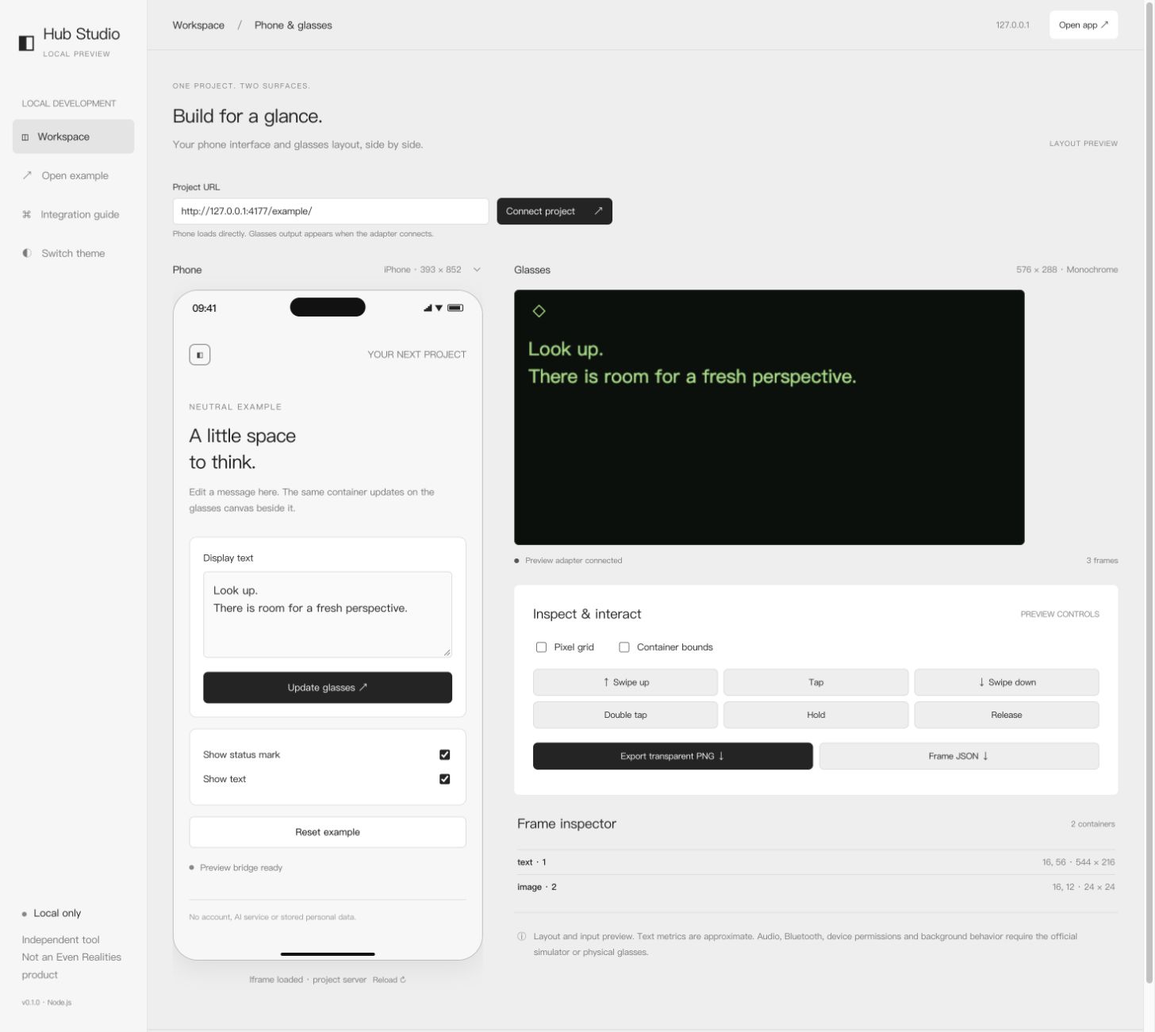
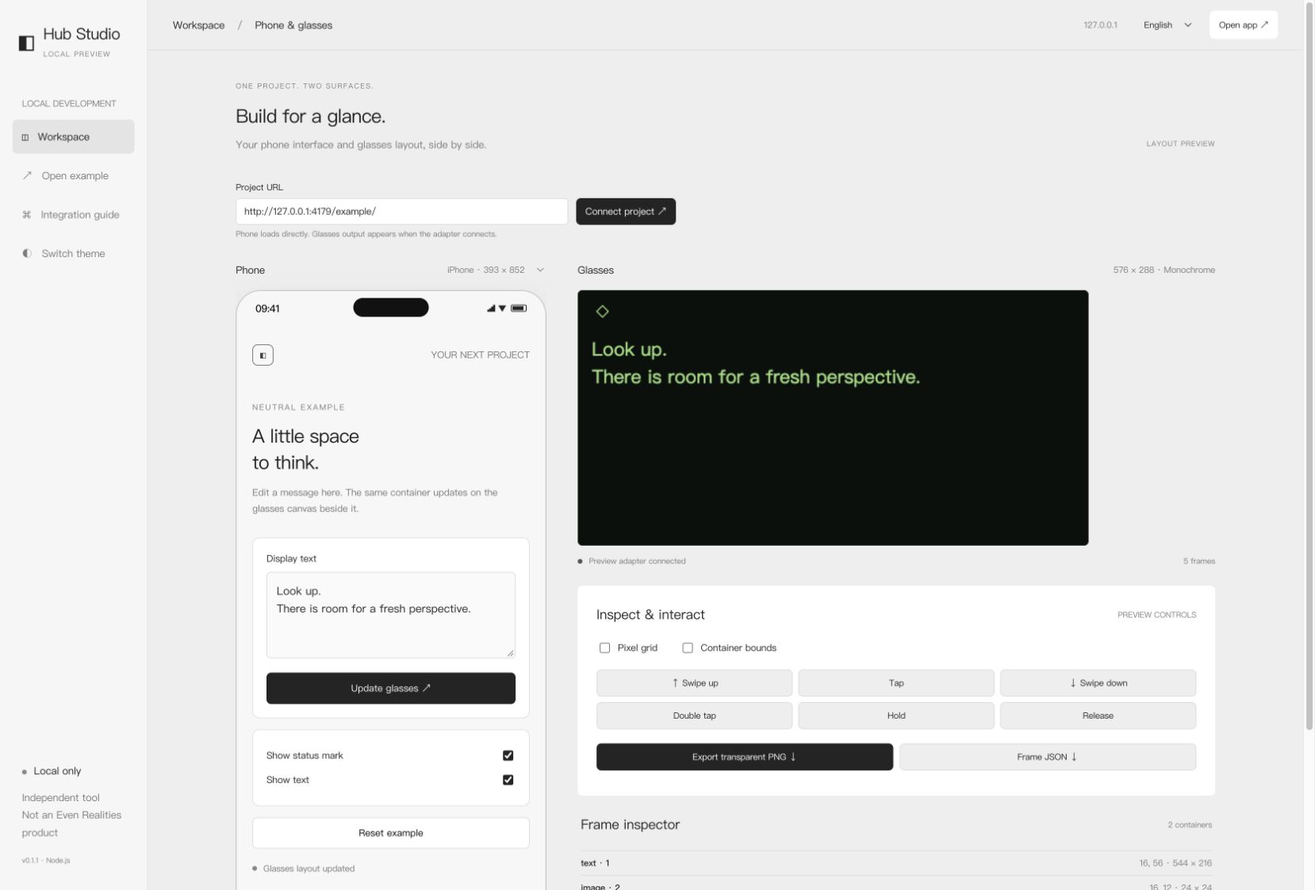
Add Simplified Chinese interface and language preferences

diff --git a/web/index.html b/web/index.html
@@ -1,21 +1,21 @@
 <!doctype html>
 <html lang="en"><head><meta charset="utf-8"><meta name="viewport" content="width=device-width,initial-scale=1"><title>Hub Preview Studio</title><link rel="stylesheet" href="/style.css"></head>
 <body>
-<aside class="sidebar"><a class="brand" href="/"><span class="brand-mark">◧</span><span>Hub Studio<small>LOCAL PREVIEW</small></span></a><span class="caption">LOCAL DEVELOPMENT</span><a class="selected" href="#workspace">◫ &nbsp; Workspace</a><button id="example" class="sidebar-link">↗ &nbsp; Open example</button><button id="guide" class="sidebar-link">⌘ &nbsp; Integration guide</button><button id="theme" class="sidebar-link" aria-label="Switch theme">◐ &nbsp; Switch theme</button><div class="sidebar-bottom"><span class="dot"></span> Local only <p>Independent tool<br>Not an Even Realities product</p><small>v0.1.0 · Node.js</small></div></aside>
-<div class="workspace" id="workspace"><header class="topbar"><span>Workspace <span class="slash">/</span> Phone & glasses</span><div><span class="local-badge">127.0.0.1</span><a id="open-app" class="topbar-action" target="_blank" rel="noopener noreferrer">Open app ↗</a></div></header>
-<main><div class="heading"><div><span class="eyebrow">ONE PROJECT. TWO SURFACES.</span><h1>Build for a glance.</h1><p>Your phone interface and glasses layout, side by side.</p></div><span class="preview-label">LAYOUT PREVIEW</span></div>
-<form id="connect-form" class="connection"><label for="project-url">Project URL</label><div class="connect-row"><input id="project-url" type="url" placeholder="http://localhost:5173" required autocomplete="off" spellcheck="false"><button class="primary" type="submit">Connect project <span>↗</span></button></div><p id="connection-note" role="status">Use your own dev server or explore the neutral example.</p></form>
-<div class="twin"><section class="phone-column"><div class="panel-title"><h2>Phone</h2><select id="device" aria-label="Phone viewport"><option value="393,852">iPhone · 393 × 852</option><option value="390,844">iPhone · 390 × 844</option><option value="360,800">Android · 360 × 800</option><option value="320,568">Compact · 320 × 568</option></select></div><div class="phone-frame" id="phone-frame"><div class="phone-status"><span class="phone-time">09:41</span><span class="island" aria-hidden="true"></span><span class="phone-indicators" aria-label="Cellular signal, Wi-Fi and battery"><i aria-hidden="true"></i><i aria-hidden="true"></i><b aria-hidden="true"></b></span></div><iframe id="phone" title="Project phone preview" sandbox="allow-scripts allow-same-origin allow-forms allow-downloads"></iframe><div class="phone-home"><div class="home-bar"></div></div></div><div class="panel-caption"><span id="phone-state">No project loaded</span><button id="reload">Reload ↻</button></div></section>
-<div class="glass-column"><section class="glass-panel"><div class="panel-title"><h2>Glasses</h2><span>576 × 288 · Monochrome</span></div><div class="canvas-wrap"><canvas id="glass" width="576" height="288" aria-label="Glasses canvas"></canvas><div id="waiting"><span>◌</span><strong>Waiting for a frame</strong><p>Connect the preview adapter to see your layout here.</p></div></div><div class="panel-caption"><span><i id="bridge-dot" class="dot"></i> <span id="bridge-state">Adapter not connected</span></span><span id="frame-count">0 frames</span></div></section>
-<section class="controls"><div class="section-heading"><h2>Inspect & interact</h2><span class="caption">PREVIEW CONTROLS</span></div><div class="control-row"><label><input id="grid" type="checkbox"> Pixel grid</label><label><input id="bounds" type="checkbox"> Container bounds</label></div><div class="gesture-row"><button data-event="1">↑ Swipe up</button><button data-event="0">Tap</button><button data-event="2">↓ Swipe down</button><button data-event="3">Double tap</button><button data-event="9">Hold</button><button data-event="10">Release</button></div><div class="exports"><button id="export" class="primary" disabled>Export transparent PNG ↓</button><button id="export-json" disabled>Frame JSON ↓</button></div><p class="download-note" role="status"><a id="download-result" hidden></a></p></section>
-<section class="inspector"><div class="section-heading"><h2>Frame inspector</h2><span id="node-count">0 containers</span></div><div id="nodes" class="nodes"><p>No display data yet.</p></div></section>
-<section class="boundary"><span>ⓘ</span><p>Layout and input preview. Text metrics are approximate. Audio, Bluetooth, device permissions and background behavior require the official simulator or physical glasses.</p></section>
+<aside class="sidebar"><a class="brand" href="/"><span class="brand-mark">◧</span><span>Hub Studio<small data-i18n="LOCAL PREVIEW">LOCAL PREVIEW</small></span></a><span class="caption" data-i18n="LOCAL DEVELOPMENT">LOCAL DEVELOPMENT</span><a class="selected" href="#workspace" data-i18n="◫   Workspace">◫ &nbsp; Workspace</a><button id="example" class="sidebar-link" data-i18n="↗   Open example">↗ &nbsp; Open example</button><button id="guide" class="sidebar-link" data-i18n="⌘   Integration guide">⌘ &nbsp; Integration guide</button><button id="theme" class="sidebar-link" aria-label="Switch theme" data-i18n-aria="Switch theme" data-i18n="◐   Switch theme">◐ &nbsp; Switch theme</button><div class="sidebar-bottom"><span class="dot"></span> <span data-i18n="Local only">Local only</span> <p><span data-i18n="Independent tool">Independent tool</span><br><span data-i18n="Not an Even Realities product">Not an Even Realities product</span></p><small>v0.1.1 · Node.js</small></div></aside>
+<div class="workspace" id="workspace"><header class="topbar"><span><span data-i18n="Workspace">Workspace</span> <span class="slash">/</span> <span data-i18n="Phone &amp; glasses">Phone &amp; glasses</span></span><div><span class="local-badge">127.0.0.1</span><select id="language" aria-label="Language / 语言"><option value="en">English</option><option value="zh-CN">简体中文</option></select><a id="open-app" class="topbar-action" target="_blank" rel="noopener noreferrer" data-i18n="Open app ↗">Open app ↗</a></div></header>
+<main><div class="heading"><div><span class="eyebrow" data-i18n="ONE PROJECT. TWO SURFACES.">ONE PROJECT. TWO SURFACES.</span><h1 data-i18n="Build for a glance.">Build for a glance.</h1><p data-i18n="Your phone interface and glasses layout, side by side.">Your phone interface and glasses layout, side by side.</p></div><span class="preview-label" data-i18n="LAYOUT PREVIEW">LAYOUT PREVIEW</span></div>
+<form id="connect-form" class="connection"><label for="project-url" data-i18n="Project URL">Project URL</label><div class="connect-row"><input id="project-url" type="url" placeholder="http://localhost:5173" required autocomplete="off" spellcheck="false"><button class="primary" type="submit"><span data-i18n="Connect project ↗">Connect project ↗</span></button></div><p id="connection-note" role="status">Use your own dev server or explore the neutral example.</p></form>
+<div class="twin"><section class="phone-column"><div class="panel-title"><h2 data-i18n="Phone">Phone</h2><select id="device" aria-label="Phone viewport" data-i18n-aria="Phone viewport"><option value="393,852">iPhone · 393 × 852</option><option value="390,844">iPhone · 390 × 844</option><option value="360,800">Android · 360 × 800</option><option value="320,568" data-i18n="Compact · 320 × 568">Compact · 320 × 568</option></select></div><div class="phone-frame" id="phone-frame"><div class="phone-status"><span class="phone-time">09:41</span><span class="island" aria-hidden="true"></span><span class="phone-indicators" aria-label="Cellular signal, Wi-Fi and battery" data-i18n-aria="Cellular signal, Wi-Fi and battery"><i aria-hidden="true"></i><i aria-hidden="true"></i><b aria-hidden="true"></b></span></div><iframe id="phone" title="Project phone preview" data-i18n-title="Project phone preview" sandbox="allow-scripts allow-same-origin allow-forms allow-downloads"></iframe><div class="phone-home"><div class="home-bar"></div></div></div><div class="panel-caption"><span id="phone-state">No project loaded</span><button id="reload" data-i18n="Reload ↻">Reload ↻</button></div></section>
+<div class="glass-column"><section class="glass-panel"><div class="panel-title"><h2 data-i18n="Glasses">Glasses</h2><span data-i18n="576 × 288 · Monochrome">576 × 288 · Monochrome</span></div><div class="canvas-wrap"><canvas id="glass" width="576" height="288" aria-label="Glasses canvas" data-i18n-aria="Glasses canvas"></canvas><div id="waiting"><span>◌</span><strong data-i18n="Waiting for a frame">Waiting for a frame</strong><p data-i18n="Connect the preview adapter to see your layout here.">Connect the preview adapter to see your layout here.</p></div></div><div class="panel-caption"><span><i id="bridge-dot" class="dot"></i> <span id="bridge-state">Adapter not connected</span></span><span id="frame-count">0 frames</span></div></section>
+<section class="controls"><div class="section-heading"><h2 data-i18n="Inspect &amp; interact">Inspect & interact</h2><span class="caption" data-i18n="PREVIEW CONTROLS">PREVIEW CONTROLS</span></div><div class="control-row"><label><input id="grid" type="checkbox"> <span data-i18n="Pixel grid">Pixel grid</span></label><label><input id="bounds" type="checkbox"> <span data-i18n="Container bounds">Container bounds</span></label></div><div class="gesture-row"><button data-event="1" data-i18n="↑ Swipe up">↑ Swipe up</button><button data-event="0" data-i18n="Tap">Tap</button><button data-event="2" data-i18n="↓ Swipe down">↓ Swipe down</button><button data-event="3" data-i18n="Double tap">Double tap</button><button data-event="9" data-i18n="Hold">Hold</button><button data-event="10" data-i18n="Release">Release</button></div><div class="exports"><button id="export" class="primary" disabled data-i18n="Export transparent PNG ↓">Export transparent PNG ↓</button><button id="export-json" disabled data-i18n="Frame JSON ↓">Frame JSON ↓</button></div><p class="download-note" role="status"><a id="download-result" hidden></a></p></section>
+<section class="inspector"><div class="section-heading"><h2 data-i18n="Frame inspector">Frame inspector</h2><span id="node-count">0 containers</span></div><div id="nodes" class="nodes"><p data-i18n="No display data yet.">No display data yet.</p></div></section>
+<section class="boundary"><span>ⓘ</span><p data-i18n="Layout and input preview. Text metrics are approximate. Audio, Bluetooth, device permissions and background behavior require the official simulator or physical glasses.">Layout and input preview. Text metrics are approximate. Audio, Bluetooth, device permissions and background behavior require the official simulator or physical glasses.</p></section>
 </div></div><p id="error" class="error" role="alert"></p>
-</main><footer><button id="theme-mobile" class="mobile-theme">◐ &nbsp; Switch theme</button><span>Made for your next Hub project.</span><span>No account · No cloud service · No telemetry</span></footer></div>
-<dialog id="help"><header><h2>Connect your project</h2><button id="close-help" aria-label="Close guide">×</button></header><p>Run your project separately, then enter its URL above. For glasses output, install this package in the project and choose the preview bridge only in development:</p><pre><code>import { createPreviewBridge, isStudioPreview }
+</main><footer><button id="theme-mobile" class="mobile-theme" data-i18n="◐   Switch theme">◐ &nbsp; Switch theme</button><span data-i18n="Made for your next Hub project.">Made for your next Hub project.</span><span data-i18n="No account · No cloud service · No telemetry">No account · No cloud service · No telemetry</span></footer></div>
+<dialog id="help"><header><h2 data-i18n="Connect your project">Connect your project</h2><button id="close-help" aria-label="Close guide" data-i18n-aria="Close guide">×</button></header><p data-i18n="Run your project separately, then enter its URL above. For glasses output, install this package in the project and choose the preview bridge only in development:">Run your project separately, then enter its URL above. For glasses output, install this package in the project and choose the preview bridge only in development:</p><pre><code>import { createPreviewBridge, isStudioPreview }
   from 'hub-preview-studio/client';
 
 const bridge = import.meta.env.DEV &amp;&amp; isStudioPreview()
   ? createPreviewBridge()
-  : await waitForEvenAppBridge();</code></pre><p>The bridge supports text, lists, inline PNG images, text replacement and simulated gestures. Preview storage is volatile; audio and sensors are unsupported. Pages that disallow iframe embedding must be adjusted in your dev server.</p><button id="done-help" class="primary">Got it</button></dialog>
+  : await waitForEvenAppBridge();</code></pre><p data-i18n="The bridge supports text, lists, inline PNG images, text replacement and simulated gestures. Preview storage is volatile; audio and sensors are unsupported. Pages that disallow iframe embedding must be adjusted in your dev server.">The bridge supports text, lists, inline PNG images, text replacement and simulated gestures. Preview storage is volatile; audio and sensors are unsupported. Pages that disallow iframe embedding must be adjusted in your dev server.</p><button id="done-help" class="primary" data-i18n="Got it">Got it</button></dialog>
 <script type="module" src="/app.js"></script></body></html>

diff --git a/lib/i18n.js b/lib/i18n.js
@@ -1,0 +1,18 @@
+const zh = {
+  'Studio example':'Studio 示例','Switch theme':'切换主题','Text container does not exist':'文字容器不存在','Text update needs content':'文字更新需要内容','Invalid page':'页面数据无效','Invalid containers':'容器数据无效','Image container does not exist':'图片容器不存在','Inline PNG is too large or invalid':'内嵌 PNG 过大或格式无效','Failed to fetch':'无法连接本地工具服务，请检查服务是否仍在运行。',
+  'LOCAL PREVIEW':'本地预览','LOCAL DEVELOPMENT':'本地开发','◫   Workspace':'◫   工作台','↗   Open example':'↗   打开示例','⌘   Integration guide':'⌘   接入指南','◐   Switch theme':'◐   切换主题','Local only':'仅本地运行','Independent tool':'独立工具','Not an Even Realities product':'非 Even Realities 官方产品',
+  'Workspace':'工作台','Phone & glasses':'手机与眼镜','Open app ↗':'打开 App ↗','ONE PROJECT. TWO SURFACES.':'一个项目，两个界面。','Build for a glance.':'为一瞥而设计。','Your phone interface and glasses layout, side by side.':'并排预览手机界面和眼镜布局。','LAYOUT PREVIEW':'布局预览','Project URL':'项目地址','Connect project ↗':'连接项目 ↗','Use your own dev server or explore the neutral example.':'使用自己的开发服务器，或打开内置示例。',
+  'Phone':'手机','Phone viewport':'手机预览尺寸','Cellular signal, Wi-Fi and battery':'蜂窝信号、无线网络和电池','Project phone preview':'项目手机预览','No project loaded':'尚未加载项目','Loading project…':'正在加载项目…','Iframe loaded · project server':'页面已加载 · 项目服务器','Reload ↻':'重新加载 ↻','Glasses':'眼镜','576 × 288 · Monochrome':'576 × 288 · 单色显示','Glasses canvas':'眼镜画布','Waiting for a frame':'等待画面','Connect the preview adapter to see your layout here.':'连接预览适配器后，布局将在此显示。','Adapter not connected':'适配器未连接','Preview adapter connected':'预览适配器已连接','{n} frames':'{n} 帧','{n} containers':'{n} 个容器',
+  'Inspect & interact':'检查与交互','PREVIEW CONTROLS':'预览控制','Pixel grid':'像素网格','Container bounds':'容器边界','↑ Swipe up':'↑ 向上滑动','Tap':'单击','↓ Swipe down':'↓ 向下滑动','Double tap':'双击','Hold':'按住','Release':'松开','Export transparent PNG ↓':'导出透明 PNG ↓','Frame JSON ↓':'画面 JSON ↓','Frame inspector':'画面检查器','No display data yet.':'暂无显示数据。','Layout and input preview. Text metrics are approximate. Audio, Bluetooth, device permissions and background behavior require the official simulator or physical glasses.':'此处预览布局与输入，文字尺寸为近似值。音频、蓝牙、设备权限和后台行为需使用官方模拟器或实体眼镜验证。',
+  'Made for your next Hub project.':'为你的下一个 Hub 项目而作。','No account · No cloud service · No telemetry':'无需账户 · 无云服务 · 无遥测','Connect your project':'连接项目','Close guide':'关闭指南','Run your project separately, then enter its URL above. For glasses output, install this package in the project and choose the preview bridge only in development:':'先单独运行项目，再在上方输入地址。要预览眼镜输出，请在项目中安装此包，并仅在开发环境中选择预览桥接：','The bridge supports text, lists, inline PNG images, text replacement and simulated gestures. Preview storage is volatile; audio and sensors are unsupported. Pages that disallow iframe embedding must be adjusted in your dev server.':'桥接支持文字、列表、内嵌 PNG、文字替换和模拟手势。预览存储不会持久保存；音频和传感器不受支持。若页面禁止 iframe 嵌入，请调整开发服务器设置。','Got it':'知道了',
+  'Phone loads directly. Glasses output appears when the adapter connects.':'手机直接加载项目；适配器连接后显示眼镜画面。','Use a project dev server URL or the built-in example.':'请使用项目开发服务器地址或内置示例。','Use an HTTP(S) project URL without embedded credentials':'请使用不含凭据的 HTTP(S) 项目地址。','Invalid URL':'项目地址无效。','Frame rejected: {reason}':'画面被拒绝：{reason}','Invalid canvas geometry':'画布几何尺寸无效','Frame needs up to 12 nodes':'画面最多包含 12 个容器','Unknown node type':'未知容器类型','Node IDs must be unique':'容器 ID 必须唯一','Text limit: 2000 characters per container':'每个文字容器最多 2000 字符','List limit: 20 short items':'列表最多包含 20 个短条目','Images must be inline PNG data':'图片必须是内嵌 PNG 数据','Pixels must be one gray4 value per pixel':'每个像素必须有一个 gray4 值','Could not decode an inline PNG. Other containers still render.':'无法解码内嵌 PNG，其他容器仍会显示。','Connect a preview adapter before sending gestures.':'请先连接预览适配器，再发送手势。','Ready · Save {name} again':'已就绪 · 再次保存 {name}','Could not prepare the export. Try again.':'无法准备导出，请重试。','An unexpected error occurred.':'发生未知错误。',
+  'YOUR NEXT PROJECT':'你的下一个项目','NEUTRAL EXAMPLE':'中性示例','A little space\nto think.':'留一点空间\n思考。','Edit a message here. The same container updates on the glasses canvas beside it.':'在此编辑内容，同一容器会在旁边的眼镜画布中更新。','Display text':'显示文字','Look up.\nThere is room for a fresh perspective.':'抬头看看。\n换个角度，也许会有新的发现。','Update glasses ↗':'更新眼镜 ↗','Show status mark':'显示状态图标','Show text':'显示文字','Reset example':'重置示例','Preview bridge ready':'预览桥接已就绪','Glasses layout updated':'眼镜布局已更新','Gesture received: {gesture}':'收到手势：{gesture}','Swipe up':'向上滑动','Swipe down':'向下滑动','No account, AI service or stored personal data.':'无需账户、AI 服务，也不存储个人数据。',
+  'text':'文字','image':'图片','list':'列表','Compact · 320 × 568':'紧凑型 · 320 × 568'
+};
+export const LOCALE_KEY = 'hub-preview-studio.locale';
+export function normalizeLocale(value) { return typeof value === 'string' && value.toLowerCase().startsWith('zh') ? 'zh-CN' : 'en'; }
+export function initialLocale(storage, language = globalThis.navigator?.language) { try { const saved = (storage ?? globalThis.localStorage)?.getItem(LOCALE_KEY); if (saved === 'en' || saved === 'zh-CN') return saved; } catch {} return normalizeLocale(language); }
+export function saveLocale(locale, storage) { try { (storage ?? globalThis.localStorage)?.setItem(LOCALE_KEY, normalizeLocale(locale)); } catch {} }
+export function t(locale, key, params = {}) { let value = normalizeLocale(locale) === 'zh-CN' ? (zh[key] || key) : key; for (const [k, v] of Object.entries(params)) value = value.replaceAll(`{${k}}`, String(v)); return value; }
+export function translateError(locale, message) { if (normalizeLocale(locale) === 'en') return message || 'An unexpected error occurred.'; return zh[message] || zh['An unexpected error occurred.']; }
+export function applyTranslations(root, locale) { root.querySelectorAll('[data-i18n]').forEach(el => { el.textContent = t(locale, el.dataset.i18n); }); root.querySelectorAll('[data-i18n-aria]').forEach(el => el.setAttribute('aria-label', t(locale, el.dataset.i18nAria))); root.querySelectorAll('[data-i18n-title]').forEach(el => el.setAttribute('title', t(locale, el.dataset.i18nTitle))); }

diff --git a/web/app.js b/web/app.js
@@ -1,15 +1,29 @@
 import { CHANNEL, normalizeFrame, validAppURL } from '/protocol.js';
+import { initialLocale, normalizeLocale, saveLocale, t, translateError, applyTranslations } from '/i18n.js';
 const $ = id => document.getElementById(id);
 const iframe = $('phone'), canvas = $('glass');
 let current = null, expectedOrigin = '', sourceURL = '', frames = 0, connected = false, paintRevision = 0;
-const error = message => { $('error').textContent = message || ''; };
+let locale = initialLocale(), phoneKey = 'No project loaded', noteKey = 'Use your own dev server or explore the neutral example.', errorState = null, downloadName = '';
+function error(message, kind = 'error') { errorState = message ? { message, kind } : null; renderState(); }
+function renderState() {
+  document.documentElement.lang = locale; applyTranslations(document, locale); $('language').value = locale;
+  $('phone-state').textContent = t(locale, phoneKey); $('connection-note').textContent = t(locale, noteKey);
+  $('bridge-state').textContent = t(locale, connected ? 'Preview adapter connected' : 'Adapter not connected');
+  $('frame-count').textContent = t(locale, '{n} frames', { n: frames }); $('node-count').textContent = t(locale, '{n} containers', { n: current?.nodes.length || 0 });
+  if (downloadName) $('download-result').textContent = t(locale, 'Ready · Save {name} again', { name: downloadName });
+  $('error').textContent = errorState ? (errorState.kind === 'frame' ? t(locale, 'Frame rejected: {reason}', { reason: translateError(locale, errorState.message) }) : translateError(locale, errorState.message)) : '';
+  if (current) $('nodes').querySelectorAll('.node b').forEach((el, i) => { const n = current.nodes[i]; el.textContent = t(locale, n.type) + ' · ' + n.id; });
+}
+function sendLocale() { if (sourceURL && new URL(sourceURL).origin === location.origin && new URL(sourceURL).pathname === '/example/') send('locale', { locale }); }
+$('language').onchange = () => { locale = normalizeLocale($('language').value); saveLocale(locale); renderState(); sendLocale(); };
+renderState();
 function clearFrame() {
   current = null; frames = 0; connected = false; ++paintRevision;
   $('download-result').hidden = true; $('download-result').removeAttribute('href');
   canvas.getContext('2d').clearRect(0, 0, 576, 288);
   $('waiting').hidden = false; $('bridge-state').textContent = 'Adapter not connected';
-  $('bridge-dot').classList.remove('live'); $('frame-count').textContent = '0 frames';
-  $('node-count').textContent = '0 containers'; $('nodes').replaceChildren();
+  $('bridge-dot').classList.remove('live'); downloadName = ''; renderState();
+  const empty = document.createElement('p'); empty.dataset.i18n = 'No display data yet.'; empty.textContent = t(locale, 'No display data yet.'); $('nodes').replaceChildren(empty);
   for (const id of ['export', 'export-json']) $(id).disabled = true;
 }
 function connect(value) {
@@ -19,33 +33,33 @@ function connect(value) {
     sourceURL = target.href; expectedOrigin = target.origin;
     target.searchParams.set('__hub_studio_origin', location.origin);
     clearFrame(); error(''); $('project-url').value = sourceURL;
-    $('phone-state').textContent = 'Loading project…';
-    $('connection-note').textContent = 'Phone loads directly. Glasses output appears when the adapter connects.';
+    phoneKey = 'Loading project…';
+    noteKey = 'Phone loads directly. Glasses output appears when the adapter connects.'; renderState();
     $('open-app').href = sourceURL; iframe.src = target.href;
   } catch (e) { error(e.message); }
 }
 function send(type, payload = {}) {
   if (expectedOrigin) iframe.contentWindow?.postMessage({ channel: CHANNEL, type, ...payload }, expectedOrigin);
 }
-iframe.addEventListener('load', () => { $('phone-state').textContent = 'Iframe loaded · project server'; send('hello'); });
+iframe.addEventListener('load', () => { phoneKey = 'Iframe loaded · project server'; renderState(); send('hello'); sendLocale(); });
 window.addEventListener('message', event => {
   if (event.source !== iframe.contentWindow || event.origin !== expectedOrigin || event.data?.channel !== CHANNEL) return;
   try {
     if (event.data.type === 'disconnect') { clearFrame(); return; }
-    if (event.data.type === 'ready') { connected = true; $('bridge-state').textContent = 'Preview adapter connected'; $('bridge-dot').classList.add('live'); error(''); }
+    if (event.data.type === 'ready') { connected = true; $('bridge-state').textContent = t(locale, 'Preview adapter connected'); $('bridge-dot').classList.add('live'); error(''); }
     if (event.data.type !== 'frame') return;
     current = normalizeFrame(event.data.frame); connected = true; frames++;
-    $('waiting').hidden = true; $('bridge-state').textContent = 'Preview adapter connected'; $('bridge-dot').classList.add('live');
-    $('frame-count').textContent = frames + ' frames'; $('node-count').textContent = current.nodes.length + ' containers';
+    $('waiting').hidden = true; $('bridge-state').textContent = t(locale, 'Preview adapter connected'); $('bridge-dot').classList.add('live');
+    $('frame-count').textContent = t(locale, '{n} frames', {n: frames}); $('node-count').textContent = t(locale, '{n} containers', {n: current.nodes.length});
     $('nodes').replaceChildren(...current.nodes.map(n => {
       const row = document.createElement('div'); row.className = 'node';
-      const title = document.createElement('b'); title.textContent = n.type + ' · ' + n.id;
+      const title = document.createElement('b'); title.textContent = t(locale, n.type) + ' · ' + n.id;
       const bounds = document.createElement('span'); bounds.textContent = `${n.x}, ${n.y} · ${n.width} × ${n.height}`;
       row.append(title, bounds); return row;
     }));
     for (const id of ['export', 'export-json']) $(id).disabled = false;
     void repaint();
-  } catch (e) { error('Frame rejected: ' + e.message); }
+  } catch (e) { error(e.message, 'frame'); }
 });
 const timer = setInterval(() => { if (!connected) send('hello'); }, 1000);
 window.addEventListener('pagehide', () => clearInterval(timer), { once: true });
@@ -114,7 +128,7 @@ function download(blob, name) {
   const reader = new FileReader();
   reader.onload = () => {
     const link = $('download-result'); link.href = reader.result; link.download = name;
-    link.textContent = 'Ready · Save ' + name + ' again'; link.hidden = false; link.click();
+    downloadName = name; link.textContent = t(locale, 'Ready · Save {name} again', {name}); link.hidden = false; link.click();
   };
   reader.onerror = () => error('Could not prepare the export. Try again.');
   reader.readAsDataURL(blob);

diff --git a/examples/index.html b/examples/index.html
@@ -1,3 +1,3 @@
-<!doctype html><html lang="en"><head><meta charset="utf-8"><meta name="viewport" content="width=device-width,initial-scale=1"><title>Studio example</title><style>
+<!doctype html><html lang="en"><head><meta charset="utf-8"><meta name="viewport" content="width=device-width,initial-scale=1"><title data-i18n="Studio example">Studio example</title><style>
 :root{font:15px/1.5 "FK Grotesk Neue","PingFang SC",-apple-system,BlinkMacSystemFont,"Segoe UI",sans-serif;letter-spacing:-.15px;-webkit-font-smoothing:antialiased;color:#222222;background:#f7f7f7}html{scrollbar-width:none}::-webkit-scrollbar{display:none}*{box-sizing:border-box}body{margin:0;padding:20px}header{display:flex;align-items:center;justify-content:space-between;font-size:12px;margin:4px 0 40px;color:#777777}.mark{width:27px;height:27px;border:1px solid #777777;display:grid;place-items:center;border-radius:7px;color:#444444}small{font-size:10px;letter-spacing:1.5px;color:#777777}h1{font-size:24px;line-height:1.4;font-weight:400;letter-spacing:-.72px;margin:10px 0 12px}p{color:#777777;font-size:12px;line-height:1.7;margin:0 0 26px}section{background:#fff;border:1px solid #e1e1e1;padding:17px;border-radius:9px;margin-bottom:14px}label{display:block;font-size:12px;margin-bottom:8px}textarea{font-family:inherit;font-size:14px;line-height:1.6;width:100%;min-height:110px;resize:vertical;border:1px solid #dddddd;border-radius:5px;padding:12px;background:#fafafa;color:inherit}button{font:inherit;border:1px solid #dddddd;border-radius:6px;background:#fff;padding:10px 15px;cursor:pointer;width:100%;font-size:12px}.primary{background:#242424;color:#fff;border-color:#242424;margin-top:12px}.row{display:flex;justify-content:space-between;gap:10px;padding:6px 0;margin:0;align-items:center}input{accent-color:#242424}.status{display:flex;gap:8px;color:#777777;font-size:11px;margin-top:17px}.status i{background:#888888;height:6px;width:6px;border-radius:50%;margin-top:5px}footer{font-size:10px;color:#999999;margin-top:32px;border-top:1px solid #e1e1e1;padding-top:14px}
-</style></head><body><header><span class="mark">◧</span><span>YOUR NEXT PROJECT</span></header><small>NEUTRAL EXAMPLE</small><h1>A little space<br>to think.</h1><p>Edit a message here. The same container updates on the glasses canvas beside it.</p><section><label for="message">Display text</label><textarea id="message">Look up.\nThere is room for a fresh perspective.</textarea><button id="send" class="primary">Update glasses ↗</button></section><section><label class="row">Show status mark <input type="checkbox" id="icon" checked></label><label class="row">Show text <input type="checkbox" id="text" checked></label></section><button id="reset">Reset example</button><div class="status"><i></i><span id="status">Preview bridge ready</span></div><footer>No account, AI service or stored personal data.</footer><script type="module" src="/example/app.js"></script></body></html>
+</style></head><body><header><span class="mark">◧</span><span data-i18n="YOUR NEXT PROJECT">YOUR NEXT PROJECT</span></header><small data-i18n="NEUTRAL EXAMPLE">NEUTRAL EXAMPLE</small><h1 data-i18n="A little space&#10;to think." style="white-space:pre-line">A little space<br>to think.</h1><p data-i18n="Edit a message here. The same container updates on the glasses canvas beside it.">Edit a message here. The same container updates on the glasses canvas beside it.</p><section><label for="message" data-i18n="Display text">Display text</label><textarea id="message">Look up.\nThere is room for a fresh perspective.</textarea><button id="send" class="primary" data-i18n="Update glasses ↗">Update glasses ↗</button></section><section><label class="row"><span data-i18n="Show status mark">Show status mark</span> <input type="checkbox" id="icon" checked></label><label class="row"><span data-i18n="Show text">Show text</span> <input type="checkbox" id="text" checked></label></section><button id="reset" data-i18n="Reset example">Reset example</button><div class="status"><i></i><span id="status">Preview bridge ready</span></div><footer data-i18n="No account, AI service or stored personal data.">No account, AI service or stored personal data.</footer><script type="module" src="/example/app.js"></script></body></html>

diff --git a/examples/app.js b/examples/app.js
@@ -1,21 +1,24 @@
 import { createPreviewBridge } from '/client.js';
+import { initialLocale, normalizeLocale, t, applyTranslations, translateError } from '/i18n.js';
 const bridge = createPreviewBridge(), $ = id => document.getElementById(id);
-$('message').value = 'Look up.\nThere is room for a fresh perspective.';
+const defaultKey = 'Look up.\nThere is room for a fresh perspective.';
+let locale = initialLocale(), edited = false, statusKey = 'Preview bridge ready', statusParams = {};
+function status(key, params = {}) { statusKey = key; statusParams = params; $('status').textContent = t(locale, key, params); }
+function localize() { document.documentElement.lang = locale; applyTranslations(document, locale); $('status').textContent = t(locale, statusKey, statusParams.gestureCode === undefined ? statusParams : { gesture: t(locale, gestureNames[statusParams.gestureCode] || String(statusParams.gestureCode)) }); }
+$('message').value = t(locale, defaultKey);
+$('message').addEventListener('input', () => { edited = true; });
+localize();
 const icon = [];
 for (let y = 0; y < 24; y++) for (let x = 0; x < 24; x++) icon.push((Math.abs(x - 11.5) + Math.abs(y - 11.5) > 5 && Math.abs(x - 11.5) + Math.abs(y - 11.5) < 8) ? 13 : 0);
-function page() {
-  return {
-    textObject: [{ containerID: 1, xPosition: 16, yPosition: 56, width: 544, height: 216, isEventCapture: 1, content: $('text').checked ? $('message').value : '' }],
-    imageObject: $('icon').checked ? [{ containerID: 2, xPosition: 16, yPosition: 12, width: 24, height: 24 }] : [],
-  };
-}
+function page() { return { textObject: [{ containerID: 1, xPosition: 16, yPosition: 56, width: 544, height: 216, isEventCapture: 1, content: $('text').checked ? $('message').value : '' }], imageObject: $('icon').checked ? [{ containerID: 2, xPosition: 16, yPosition: 12, width: 24, height: 24 }] : [] }; }
 let queue = Promise.resolve();
-function update() {
-  queue = queue.then(async () => { await bridge.rebuildPageContainer(page()); if ($('icon').checked) await bridge.updateImageRawData({ containerID: 2, imageData: icon }); $('status').textContent = 'Glasses layout updated'; }).catch(error => { $('status').textContent = error.message; });
-}
+function update() { queue = queue.then(async () => { await bridge.rebuildPageContainer(page()); if ($('icon').checked) await bridge.updateImageRawData({ containerID: 2, imageData: icon }); status('Glasses layout updated'); }).catch(error => { statusKey = 'An unexpected error occurred.'; $('status').textContent = translateError(locale, error.message); }); }
 $('send').onclick = update;
 for (const id of ['icon', 'text']) $(id).onchange = update;
-$('reset').onclick = () => { $('message').value = 'Look up.\nThere is room for a fresh perspective.'; $('text').checked = true; $('icon').checked = true; update(); };
-bridge.onEvenHubEvent(event => { const code = event.textEvent?.eventType ?? event.listEvent?.eventType; $('status').textContent = 'Gesture received: ' + ({ 0:'Tap', 1:'Swipe up', 2:'Swipe down', 3:'Double tap', 9:'Hold', 10:'Release' }[code] || code); });
+$('reset').onclick = () => { edited = false; $('message').value = t(locale, defaultKey); $('icon').checked = true; $('text').checked = true; update(); };
+const gestureNames = { 0:'Tap', 1:'Swipe up', 2:'Swipe down', 3:'Double tap', 9:'Hold', 10:'Release' };
+bridge.onEvenHubEvent(event => { const code = event.textEvent?.eventType ?? event.listEvent?.eventType; statusKey = 'Gesture received: {gesture}'; statusParams = { gestureCode: code }; localize(); });
+const studioOrigin = new URL(location.href).searchParams.get('__hub_studio_origin');
+window.addEventListener('message', event => { if (event.source !== window.parent || event.origin !== studioOrigin || event.data?.channel !== 'hub-preview-studio/v1' || event.data.type !== 'locale' || !['en','zh-CN'].includes(event.data.locale)) return; const next = normalizeLocale(event.data.locale); if (locale === next) return; locale = next; if (!edited) { $('message').value = t(locale, defaultKey); update(); } localize(); });
 await bridge.createStartUpPageContainer(page());
 if ($('icon').checked) await bridge.updateImageRawData({ containerID: 2, imageData: icon });

diff --git a/web/style.css b/web/style.css
@@ -47,6 +47,7 @@ h2 { font-size: 17px; font-weight: 400; letter-spacing: -.17px; }
 .workspace { margin-left: 188px; }
 .topbar { height: 64px; padding: 0 32px; border-bottom: 1px solid var(--line); display: flex; align-items: center; justify-content: space-between; background: var(--bg); font-size: 13px; }
 .topbar > div { display: flex; gap: 20px; align-items: center; }
+#language { max-width: 105px; padding: 4px; color: var(--text); font-size: 11px; }
 .slash { margin: 0 12px; color: var(--muted); }
 .local-badge { display: inline-flex; padding: 2px 6px; border-radius: 3px; background: var(--bg); color: var(--muted); font-size: 11px; line-height: 18px; letter-spacing: -.11px; white-space: nowrap; }
 .topbar-action { min-height: 36px; display: inline-flex; align-items: center; padding: 8px 12px; border-radius: 6px; background: var(--panel); font-size: 11px; }
@@ -61,7 +62,6 @@ main { max-width: 1310px; margin: 0 auto; padding: 32px; }
 .connect-row { display: flex; gap: 10px; margin-top: 4px; }
 .connect-row input { flex: 1; min-width: 0; width: 100%; padding: 7px 10px; border: 1px solid var(--line); border-radius: 5px; background: var(--panel); font-size: 12px; }
 .connect-row button { padding: 7px 12px; border-radius: 6px; font-size: 12px; }
-.connect-row button span { padding-left: 20px; }
 .connection p { margin-top: 4px; color: var(--muted); font-size: 10px; }
 .primary { background: var(--active); color: #fff; }
 .twin { display: grid; grid-template-columns: 395px minmax(0, 1fr); gap: 40px; align-items: start; }
@@ -147,6 +147,8 @@ body.dark .primary, body.dark .exports .primary { color: #111; }
   .heading { margin-bottom: 16px; }
   .heading p { font-size: 11px; line-height: 1.8; }
   .topbar { padding: 0 16px; }
+  .topbar > div { gap: 8px; }
+  #language { max-width: 90px; }
   .local-badge { display: none; }
   .twin { display: flex; flex-direction: column; align-items: center; gap: 32px; }
   .phone-column { order: 2; width: 100%; max-width: 395px; }

diff --git a/README.zh-CN.md b/README.zh-CN.md
@@ -4,6 +4,8 @@
 
 独立的本地开发工作台：在同一窗口预览 Hub 项目的手机界面和 576 × 288 眼镜布局。非 Even Realities 官方产品，也不替代官方 Simulator。Node.js 20+，零运行时依赖，无需构建。
 
+![中文工作台](./docs/preview-zh.jpg)
+
 ## 安装与启动
 
 从源码运行：
@@ -23,13 +25,17 @@ npm start -- --app http://localhost:5173 --port 4177
 使用分发包：
 
 ```sh
-npm install -g ./hub-preview-studio-0.1.0.tgz
+npm install -g ./hub-preview-studio-0.1.1.tgz
 hub-preview-studio --app http://localhost:5173
 ```
 
 浏览器打开终端显示的 `http://127.0.0.1:4177`。不传 `--app` 时打开内置中性示例。默认不自动打开浏览器。工具只监听本机回环地址；不代理项目、不扫描项目目录、不部署服务、不访问 AI API。所有必要文件随 npm 包提供，源码包与 npm tgz 可独立于外部项目运行。
 
 项目采用 [MIT 许可证](./LICENSE)，公开源码位于 [GitHub](https://github.com/zijiebuzhuang/hub-preview-studio)。可从 [Releases](https://github.com/zijiebuzhuang/hub-preview-studio/releases) 下载安装包。尚未发布到 npm 注册表，不能直接用包名从注册表安装。
+
+## 界面语言
+
+顶部语言选项支持 **简体中文 / English**。首次跟随浏览器语言，手动选择后保存在当前浏览器；存储不可用时仍可切换。语言切换覆盖工作台、接入指南与内置示例，不会重载已连接项目；示例中用户编辑过的文字保留，外部项目仍使用自己的语言。
 
 ## 工作台外观
 
@@ -46,7 +52,7 @@ hub-preview-studio --app http://localhost:5173
 跨来源 iframe 不能自动读取项目内部状态。需要一个轻量开发适配器。在项目中安装工具包，再将原来的桥接创建位置改为：
 
 ```sh
-npm install --save-dev /path/to/hub-preview-studio-0.1.0.tgz
+npm install --save-dev /path/to/hub-preview-studio-0.1.1.tgz
 ```
 
 ```js
@@ -95,4 +101,4 @@ npm test
 npm pack
 ```
 
-npm 包显式包含 bin、lib、web、examples、文档、LICENSE 和 NOTICE；不包含测试与 CI。源码仓库包含测试与 CI。测试覆盖来源校验、文本覆盖、数据边界、事件、图像格式及服务端目录隔离。2026-10-30：5 项自动检查通过；独立安装目录启动、跨端口项目接入、文本/图像更新、手势回传、深色主题、320/393 视口及实际 PNG/JSON 导出完成桌面验证。透明 PNG 尺寸为 576×288，调试边框不进入导出。推荐在官方 Simulator 和 Android/iOS 真机补齐运行验收。
+npm 包显式包含 bin、lib、web、examples、文档、LICENSE 和 NOTICE；不包含测试与 CI。源码仓库包含测试与 CI。测试覆盖来源校验、文本覆盖、数据边界、事件、图像格式、服务端目录隔离，以及语言偏好回退和动态文案。2026-10-30：7 项自动检查通过；独立安装目录启动、跨端口项目接入、文本/图像更新、手势回传、深色主题、320/393 视口及实际 PNG/JSON 导出完成桌面验证。透明 PNG 尺寸为 576×288，调试边框不进入导出。推荐在官方 Simulator 和 Android/iOS 真机补齐运行验收。

diff --git a/README.md b/README.md
@@ -27,12 +27,16 @@ npm start -- --app http://localhost:5173 --port 4177
 You can also download the `.tgz` from [Releases](https://github.com/zijiebuzhuang/hub-preview-studio/releases):
 
 ```sh
-npm install -g ./hub-preview-studio-0.1.0.tgz
+npm install -g ./hub-preview-studio-0.1.1.tgz
 hub-preview-studio --app http://localhost:5173
 ```
 
 The package is **not published to the npm registry**. Install the release file
 or run the source; a registry install by package name is not available.
+
+## Language
+
+Choose **English** or **简体中文** in the top bar. Studio initially follows your browser language and remembers a manual choice on this browser. Changing language updates the workspace, guide and built-in example without reloading the connected project. Edited example text is preserved; external projects keep their own language.
 
 ## Phone preview
 
@@ -55,7 +59,7 @@ Phone previews work without an adapter. Glasses layouts require an explicit
 **development-only** bridge. Install this release in the project:
 
 ```sh
-npm install --save-dev /path/to/hub-preview-studio-0.1.0.tgz
+npm install --save-dev /path/to/hub-preview-studio-0.1.1.tgz
 ```
 
 At the project's bridge creation point, choose the preview bridge only in
@@ -130,8 +134,9 @@ npm pack --dry-run
 npm pack
 ```
 
-The five automated checks cover frame limits, source/origin pinning, text
-replacement, bridge events/images/storage, and server file isolation. Desktop
+The seven automated checks cover frame limits, source/origin pinning, text
+replacement, bridge events/images/storage, server file isolation, language
+preferences with unavailable storage, and translated dynamic messages. Desktop
 validation also covers cross-port integration, text/image updates, gesture
 round trips, light/dark appearance, 320/393 phone sizes, and actual PNG/JSON
 exports. This is not physical-device validation.

diff --git a/CHANGELOG.md b/CHANGELOG.md
@@ -1,5 +1,10 @@
 # Changelog
 
+## 0.1.1 — 2026-10-30
+
+- Add English and Simplified Chinese interface switching, browser-language defaults, and saved language preferences.
+- Localize workspace states, integration guide, and the neutral example while preserving project and edited content.
+
 ## 0.1.0 — 2026-10-30
 
 - Initial independent local CLI and phone/glasses workspace.
